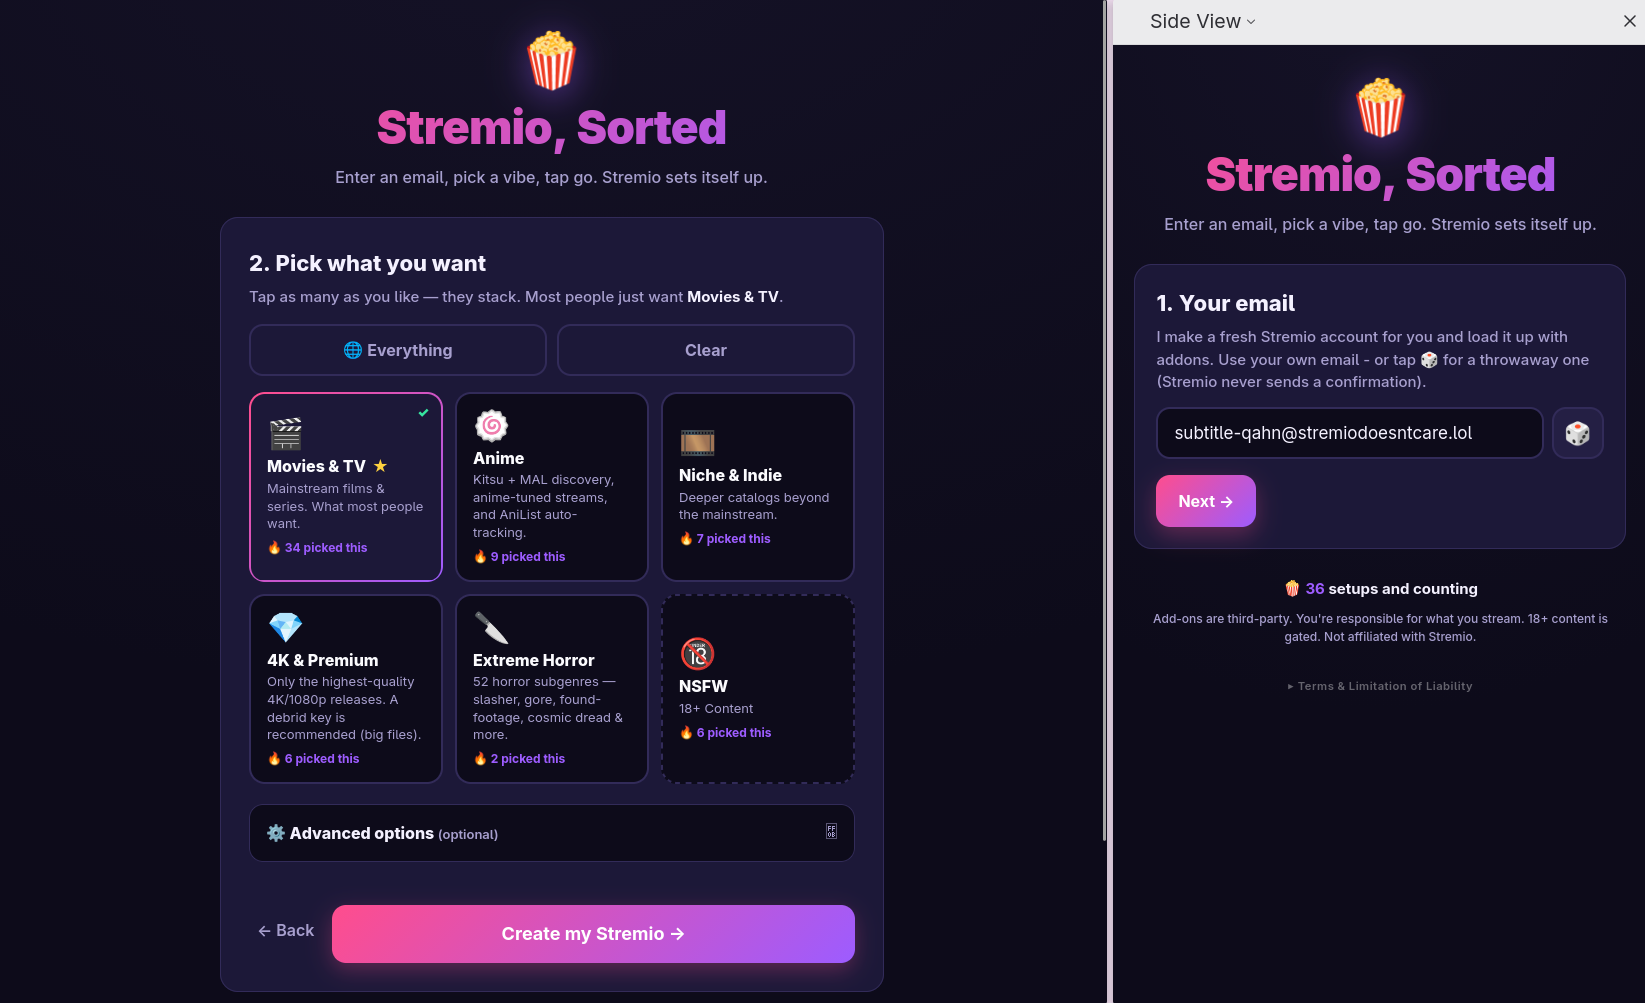
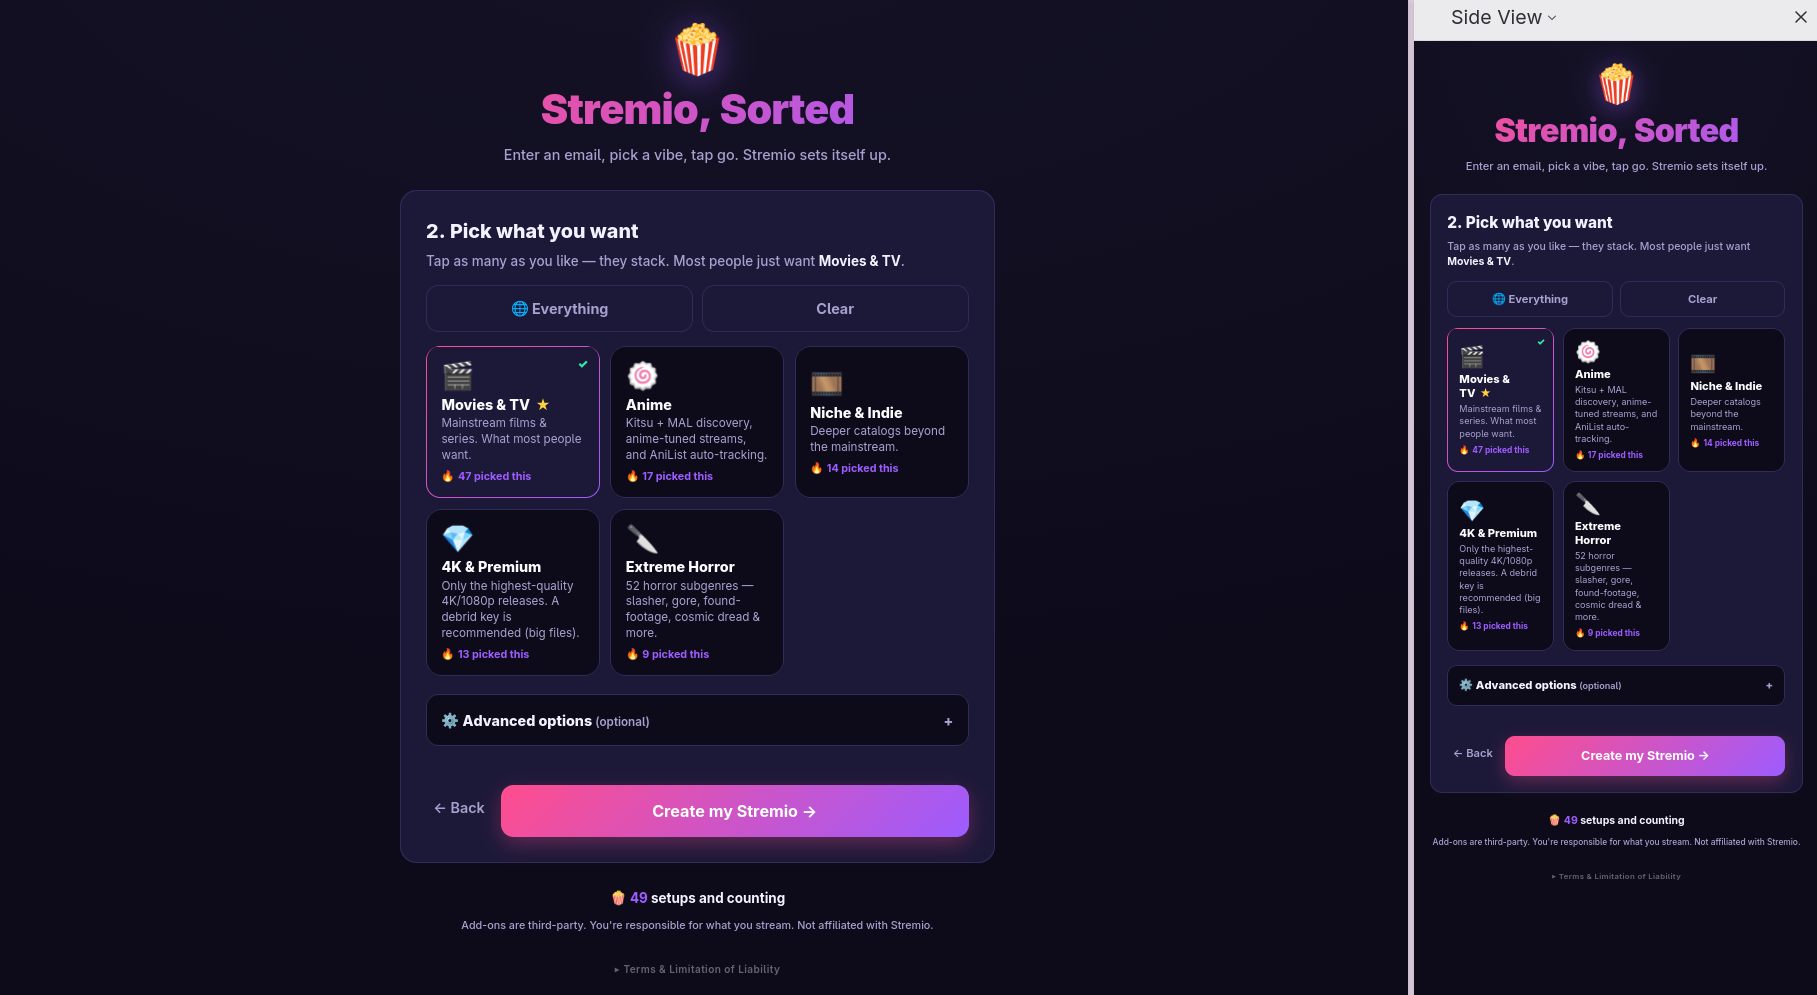
Readme.md update w/ image updates

diff --git a/README.md b/README.md
@@ -7,9 +7,9 @@
 <img src="https://img.shields.io/badge/Bot%20protection-Turnstile-f38020?style=for-the-badge&logo=cloudflare&logoColor=white" />
 <img src="https://img.shields.io/badge/AI--assisted-development-lightgrey?style=for-the-badge&logo=openai&logoColor=white" />
 
-Self-service Stremio setup. Visitor enters their own email or generates one randomly, picks packs, taps go - the page creates a Stremio account and loads the add-ons.
+A streamlined, one-tap configuration tool for Stremio. Whether you are setting it up for yourself or helping friends and family who aren't tech-savvy, this handles the heavy lifting. Just enter an email (or let it generate a random one), select your content packs, and tap go. The tool automatically creates the account and pre-loads all the selected add-ons. 
 
-No more setting up accounts by hand for the less tech savy.
+No more manually configuring Stremio accounts one add-on at a time.
 
 > ⚠ **AI Disclaimer:** Parts of this project (including code, documentation, and/or assets) were developed with the assistance of AI tools. Review and use accordingly.
 
@@ -18,18 +18,18 @@ No more setting up accounts by hand for the less tech savy.
 <img src="docs/screenshots/overview.png" width="720" alt="App overview" />
 </div>
 
-<br>
+<br>selection
 
 <table>
 <tr>
 <td width="50%" valign="top">
 
-### Features
+### Core Features
 
-- 📧 **Self-service** - enter or generate an email, pick packs, done
-- 🔒 **Client-side account creation** - email + generated password go straight to `api.strem.io`, never touch our server
-- 🛡 **Bot-gated** - Cloudflare Turnstile + per-IP rate limit in front of setup
-- 🎛 **One JSON source of truth** - addons/packs/baseline defined once, edit + redeploy
+- 📧 **Frictionless Setup** - Type an email, pick your preferred content packs, and you are ready to stream.
+- 🔒 **Total Privacy (Client-Side)** - Your email and generated password communicate directly with Stremio (`api.strem.io`). Your credentials never touch our servers.
+- 🛡 **Invisible Security** - Protected by Cloudflare Turnstile and strict per-IP rate limits to block bots without annoying users.
+- 🎛 **Single Source of Truth** - All add-ons, packs, and baseline configurations are managed via a single JSON file for effortless updates.
 
 </td>
 <td width="50%" valign="top">
@@ -56,74 +56,77 @@ flowchart LR
     style C fill:#6e40c9,color:#fff,stroke:none
     style D fill:#6e40c9,color:#fff,stroke:none
     style E fill:#2ea44f,color:#fff,stroke:none
+
 ```
 
-> `C`→`D` is the only hop that leaves the browser: Turnstile verify + rate-limit go through the sidecar. 
+> `C`→`D` is the only hop that leaves the browser. The Turnstile verification and rate-limiting go through our sidecar service to ensure security.
 
->Account creation itself (`D`) talks directly to `api.strem.io` from the client - see Architecture below.
+> The actual account creation (`D`) communicates securely and directly from your browser to `api.strem.io`—see Architecture below.
 
 ---
 
 ## Architecture
 
-- **Frontend** (this dir, static): the whole wizard + **client-side** account creation. Email + a generated password go straight from the browser to `api.strem.io` and **never touch our server** (verified: Stremio API + addon hosts all send `Access-Control-Allow-Origin: *`).
-- **Sidecar**: `stremio-setup-svc` — Turnstile verify + per-IP rate-limit + the public "fun" pack tally. No PII.
-- **Edge**: Caddy block for `stremio-setup.madebytrap.lol` (static + `/api/*` → sidecar).
+* **Frontend** (this dir, static): The setup wizard and **client-side** account creation logic. Emails and generated passwords are sent straight from the user's browser to `api.strem.io`. They **never touch our server** (Verified: Stremio API + addon hosts successfully send `Access-Control-Allow-Origin: *`).
+* **Sidecar**: `stremio-setup-svc` — Handles Turnstile verification, per-IP rate-limiting, and the live "pack setup" counter. No personally identifiable information (PII) is processed here.
+* **Edge**: Caddy block for `stremio-setup.madebytrap.lol` (static + `/api/*` routed to the sidecar).
 
-## Single source of truth
+## Configuration & Management
 
-[`public/data/stremio-addons.json`](public/data/stremio-addons.json). Edit + redeploy. `addons` are defined once; `packs` reference them by id; `baseline` is always-on; `defaults.remove` strips unwanted Stremio default add-ons.
+[`public/data/stremio-addons.json`](https://www.google.com/search?q=public/data/stremio-addons.json) is the control center. Edit and redeploy to update the site instantly.
+`addons` are defined once globally; `packs` reference them by their ID; `baseline` dictates what is always installed; `defaults.remove` cleanly strips out any unwanted default Stremio add-ons.
 
-### Add / fix an add-on
-1. Drop its `manifest` URL into the addon entry.
-2. Remove `needs_url: true` (and `configure_url`) so it auto-applies instead of showing as a "Configure & install" link-out.
+### Adding or fixing an add-on
+
+1. Drop the add-on's `manifest` URL into its designated entry.
+2. Remove `needs_url: true` (and `configure_url`) so the add-on automatically applies in the background, rather than prompting the user with a "Configure & install" link.
 
 ---
 
-## Categories (6, all functionally verified 2026-06-26)
+## Content Categories (Verified 2026-06-26)
 
-Each was tested end-to-end: catalogs return items AND titles return playable streams.
+Each pack has been tested end-to-end: catalogs successfully load items, and titles successfully pull playable streams.
 
-| Preset | Works because | Notes |
-|---|---|---|
-| 🎬 Movies & TV | Streaming Catalogs + Torrentio (50 streams) | the default |
-| 🍥 Anime | Kitsu/MAL catalogs + Torrentio-Anime (50 streams) + AniList tracking | |
-| 🎞 Niche & Indie | Torrent Catalogs + baseline Torrentio | |
-| 💎 4K & Premium | Torrentio tuned to 1080p+/4K only | debrid recommended (big files) |
-| 🔪 Extreme Horror | Scary Only (52 subgenre catalogs) + Torrentio (50 streams) | |
-| 🔞 Adult | Hentai (direct), TPB/AdultStremio/PornTube (torrent/debrid), cams (configure) | age-gated |
+| Preset | How it Works | Notes |
+| --- | --- | --- |
+| 🎬 Movies & TV | Streaming Catalogs + Torrentio (50 streams) | The default recommendation |
+| 🍥 Anime | Kitsu/MAL catalogs + Torrentio-Anime (50 streams) + AniList tracking |  |
+| 🎞 Niche & Indie | Torrent Catalogs + baseline Torrentio |  |
+| 💎 4K & Premium | Torrentio tuned exclusively to 1080p+ and 4K | Debrid highly recommended for large files |
+| 🔪 Extreme Horror | Scary Only (52 subgenre catalogs) + Torrentio (50 streams) |  |
 
 ---
 
 ## Run locally
 
-Static frontend only - serve the repo root with any static file server:
+To test the static frontend locally, simply serve the repository root using any static file server:
 
 ```sh
 npx serve .
 # or
 npx http-server .
-# or, if you have Python installed
+# or, utilizing Python
 python3 -m http.server
+
 ```
 
-Then open the printed local URL (e.g. `http://localhost:8000`).
+Then open the provided local URL (e.g., `http://localhost:8000`).
 
-Full production deploy (Turnstile verification, rate-limiting, the live tally) needs the sidecar + edge config migrated in first.
+*Note: A full production deployment (which includes Turnstile verification, rate-limiting, and the live tally) requires the sidecar and edge configuration to be running.*
 
 ---
 
 ## Tech stack
 
 | Dependency | Purpose | License |
-| ---------- | ------- | ------- |
-| [Cloudflare Turnstile](https://developers.cloudflare.com/turnstile/) | Bot-check widget, loaded from Cloudflare's CDN | proprietary (Cloudflare) |
-| [api.strem.io](https://github.com/Stremio/stremio-api) | Direct client-side account creation + add-on install | third-party, Stremio |
-| Vanilla JS (`public/js/app.js`) | Wizard logic, no framework | - |
+| --- | --- | --- |
+| [Cloudflare Turnstile](https://developers.cloudflare.com/turnstile/) | Bot-check widget, loaded safely via Cloudflare's CDN | Proprietary (Cloudflare) |
+| [api.strem.io](https://github.com/Stremio/stremio-api) | Facilitates direct client-side account creation and add-on installation | Third-party, Stremio |
+| Vanilla JS (`public/js/app.js`) | Core wizard logic, keeping things fast with zero framework bloat | - |
 
-Turnstile's widget script is the only third-party network dependency at runtime - everything else in the wizard is plain HTML/CSS/JS talking straight to Stremio's public API.
+The Cloudflare Turnstile script is the only third-party network dependency loaded at runtime. Everything else operates purely via plain HTML/CSS/JS communicating directly with Stremio's public API.
 
-## Structure
+## Directory Structure
 
 ```
 ├── index.html
@@ -135,19 +138,22 @@ Turnstile's widget script is the only third-party network dependency at runtime 
 ├── custom/
 │   └── addons/thelist/
 └── docs/screenshots/
+
 ```
 
 ---
 
 ## Licensing
 
-| Scope                                        | License                                  |
-| --------------------------------------------- | ----------------------------------------- |
-| Code (HTML/CSS/JS) written for this project   | [GNU AGPLv3](LICENSE)                    |
-| Content - copy, branding, curated add-on lists | © Tristan Phillips, all rights reserved  |
+| Scope | License |
+| --- | --- |
+| Code (HTML/CSS/JS) written for this project | [GNU AGPLv3](https://www.gnu.org/licenses/agpl-3.0.en.html) |
+| Content - copy, branding, curated add-on lists | © Trap, all rights reserved |
 
-> Not covered by the code license; no reuse of copy, branding, or the curated add-on lists without permission.
+> **Note:** The AGPLv3 license covers the codebase only.
 
 ## Disclaimer
 
-This project is provided for **educational and entertainment purposes only**. It does not host, distribute, or serve any copyrighted content itself - it merely automates configuration of third-party Stremio add-ons that are publicly available. The maintainer(s) assume no responsibility or liability for how this tool is used, or for the content, legality, or availability of any third-party add-ons or streams accessed through it. Use at your own risk and in accordance with your local laws.
+This project is provided for **educational and entertainment purposes only**. It does not host, distribute, or serve any copyrighted content. It functions strictly to automate the configuration of third-party Stremio add-ons that are already publicly available on the internet. The maintainer(s) assume no responsibility or liability for how this tool is utilized, nor for the content, legality, or availability of any third-party add-ons or media streams accessed through it. Use at your own risk and strictly in accordance with your local laws.
+
+```
